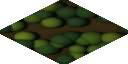
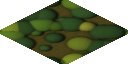
feat(art): lift and vary the forest canopy
The forest read too dark and too uniform next to the lit grass. Crowns now
come in five tones and three sizes with small clearings, over a lighter
floor and with shallower relief, so cast shadows model them without
drowning the tile. Autumn tones are muted. In winter the bare crowns become
a grey haze of twigs painted onto the snow, with no relief of their own, so
they no longer read as dark discs; more conifers break up the pattern.

Refs #84

diff --git a/scripts/art/ground.py b/scripts/art/ground.py
@@ -143,42 +143,48 @@ def _wrapped_distance(uu: np.ndarray, vv: np.ndarray, cu: float, cv: float) -> n
 
 
 FOLIAGE = {
-    "spring": [(0.20, 0.36, 0.14), (0.27, 0.44, 0.16), (0.34, 0.48, 0.18)],
-    "autumn": [(0.56, 0.36, 0.14), (0.62, 0.50, 0.18), (0.46, 0.26, 0.12)],
-    "winter": [(0.50, 0.46, 0.41), (0.54, 0.50, 0.45), (0.46, 0.43, 0.39)],
+    "spring": [(0.26, 0.44, 0.17), (0.33, 0.52, 0.19), (0.42, 0.56, 0.21), (0.48, 0.58, 0.24), (0.24, 0.40, 0.22)],
+    "autumn": [(0.58, 0.44, 0.20), (0.64, 0.54, 0.26), (0.50, 0.34, 0.18), (0.54, 0.50, 0.26), (0.38, 0.44, 0.22)],
 }
-CONIFER = (0.14, 0.28, 0.16)
+CONIFER = (0.18, 0.34, 0.20)
+FLOOR = (0.28, 0.30, 0.15)
+TWIGS = (0.46, 0.42, 0.38)
 SNOW = (0.84, 0.90, 0.98)  # cool, so the warm sun leaves it white rather than cream
 
 
 def forest(season: str = "spring") -> Surface:
-    """A closed canopy of 20 crowns per tile, scattered rather than gridded so the repeat is hard to
-    see. A quarter are conifers: they keep their needles in winter and catch snow on top, while the
-    bare broadleaf crowns turn into a thin lace of twigs over the snow."""
-    rng = np.random.default_rng(7)
+    """A loose canopy of 26 crowns per tile in five tones and three sizes, scattered so the repeat is
+    hard to see, with small clearings where the floor shows. Three in ten are conifers. Relief stays shallow so cast shadows
+    model the crowns without drowning the tile. In winter the broadleaf crowns are bare: a grey
+    haze of twigs painted onto the snow with no relief of its own, so it casts no shadow; the
+    conifers keep their needles and carry snow on their sunlit side."""
+    rng = np.random.default_rng(11)
     uu, vv = _grid()
     winter = season == "winter"
-    height = np.full((SIZE, SIZE), -0.4)
+    height = np.full((SIZE, SIZE), -0.15)
     albedo = np.empty((SIZE, SIZE, 3))
-    albedo[:] = SNOW if winter else (0.20, 0.19, 0.11)
+    albedo[:] = SNOW if winter else FLOOR
+    albedo *= (1 + 0.12 * noise("forest-floor", 0.1))[..., None]
     leaves = noise("forest-leaves", 0.03, sharp=1.0)
-    twigs = np.abs(noise("forest-twigs", 0.025, sharp=0.5)) < 0.5
-    crowns = [(rng.random(), rng.random(), rng.uniform(0.09, 0.15), rng.random() < 0.25) for _ in range(20)]
-    for cu, cv, radius, conifer in crowns:
-        bare = winter and not conifer
+    lace = np.clip(1 - np.abs(noise("forest-twigs", 0.02, sharp=0.5)) * 2, 0, 1)
+    crowns = [(rng.random(), rng.random(), rng.choice([0.07, 0.11, 0.16]), rng.random() < 0.3) for _ in range(26)]
+    for cu, cv, radius, conifer in sorted(crowns, key=lambda c: c[2]):
+        tone = FOLIAGE["autumn" if season == "autumn" else "spring"][rng.integers(5)]
+        shade = 0.88 + 0.24 * rng.random()
+        lift = 0.1 * rng.random()
         d = _wrapped_distance(uu, vv, cu, cv) / radius
-        lift = 0.3 * rng.random()
-        crown = np.sqrt(np.clip(1 - d**2, 0, 1)) * radius * TILE_METRES * (0.4 if bare else 1.1) + lift
+        if winter and not conifer:
+            twigs = (d < 1) * (0.35 + 0.45 * lace) * (1 - d.clip(0, 1) ** 2)
+            albedo = albedo * (1 - twigs[..., None]) + np.array(TWIGS) * twigs[..., None]
+            continue
+        crown = np.sqrt(np.clip(1 - d**2, 0, 1)) * min(radius * TILE_METRES, 0.45) + lift
         inside = (d < 1) & (crown > height)
-        if bare:
-            inside &= twigs
         height = np.where(inside, crown, height)
-        base = CONIFER if conifer else FOLIAGE[season][rng.integers(3)]
-        colour = np.array(base) * (0.9 + 0.2 * rng.random())
-        albedo[inside] = colour * (1 + 0.25 * leaves[inside, None])
-        if winter and conifer:
-            snowy = inside & (d < 0.75) & ((uu - cu + 0.5) % 1 - 0.5 < 0.02)
-            albedo[snowy] = 0.5 * albedo[snowy] + 0.5 * np.array(SNOW)
+        colour = np.array(CONIFER if conifer else tone) * shade
+        albedo[inside] = colour * (1 + 0.22 * leaves[inside, None])
+        if winter:
+            snowy = inside & (d < 0.8) & ((uu - cu + 0.5) % 1 - 0.5 < 0.03) & (leaves > -0.3)
+            albedo[snowy] = 0.4 * albedo[snowy] + 0.6 * np.array(SNOW)
     return Surface(height, np.clip(albedo, 0, 1))
 
 

diff --git a/Resources/Sprites.style/catalog/terrain-forest-winter.md b/Resources/Sprites.style/catalog/terrain-forest-winter.md
@@ -8,7 +8,7 @@ The winter look of the forest tile. The renderer swaps it in for
 
 ## Visual identity
 
-Painted by `scripts/art/ground.py`. The canopy in winter: bare broadleaf crowns as a grey lace of twigs over snow, and dark conifers carrying snow on their sunlit side. Lit like the IsoKit rig (warm sun from the upper left, cool sky) and repeating once per tile in (u, v), so any two tiles join without a seam.
+Painted by `scripts/art/ground.py`. The canopy in winter: bare broadleaf crowns as a grey haze of twigs painted onto the snow, with no relief or shadow of their own, and conifers carrying snow on their sunlit side. Lit like the IsoKit rig (warm sun from the upper left, cool sky) and repeating once per tile in (u, v), so any two tiles join without a seam.
 
 ## Sheet
 

diff --git a/Resources/Sprites.style/catalog/terrain-forest.md b/Resources/Sprites.style/catalog/terrain-forest.md
@@ -9,7 +9,7 @@ forest.
 
 ## Visual identity
 
-Painted by `scripts/art/ground.py`. A closed canopy of scattered broadleaf and conifer crowns, each lit and casting soft shadow onto the dark forest floor. Lit like the IsoKit rig (warm sun from the upper left, cool sky) and repeating once per tile in (u, v), so any two tiles join without a seam.
+Painted by `scripts/art/ground.py`. A loose canopy of broadleaf crowns in five greens and three sizes among darker conifers, scattered so the tile repeat is hard to see, with small clearings where the floor shows. Shallow relief keeps it light enough to read next to the grass. Lit like the IsoKit rig (warm sun from the upper left, cool sky) and repeating once per tile in (u, v), so any two tiles join without a seam.
 
 ## Sheet
 

diff --git a/Resources/Sprites.style/catalog/terrain-forest-autumn.md b/Resources/Sprites.style/catalog/terrain-forest-autumn.md
@@ -8,7 +8,7 @@ The autumn look of the forest tile. The renderer swaps it in for
 
 ## Visual identity
 
-Painted by `scripts/art/ground.py`. The canopy in autumn: orange, gold and russet broadleaf crowns among dark conifers. Lit like the IsoKit rig (warm sun from the upper left, cool sky) and repeating once per tile in (u, v), so any two tiles join without a seam.
+Painted by `scripts/art/ground.py`. The canopy in autumn: muted ochre, gold and russet broadleaf crowns among dark conifers. Lit like the IsoKit rig (warm sun from the upper left, cool sky) and repeating once per tile in (u, v), so any two tiles join without a seam.
 
 ## Sheet
 
